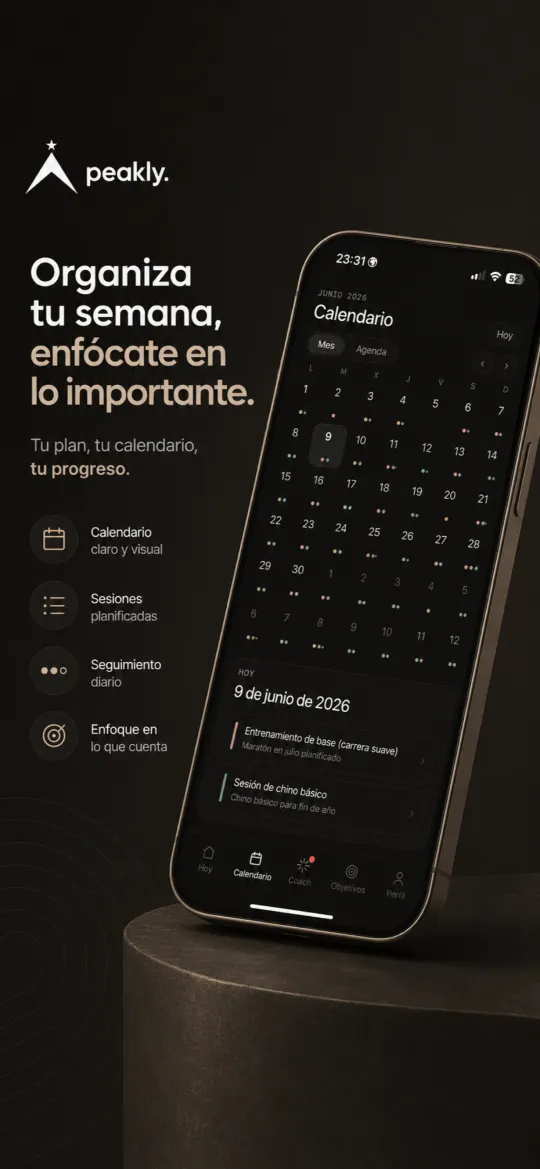
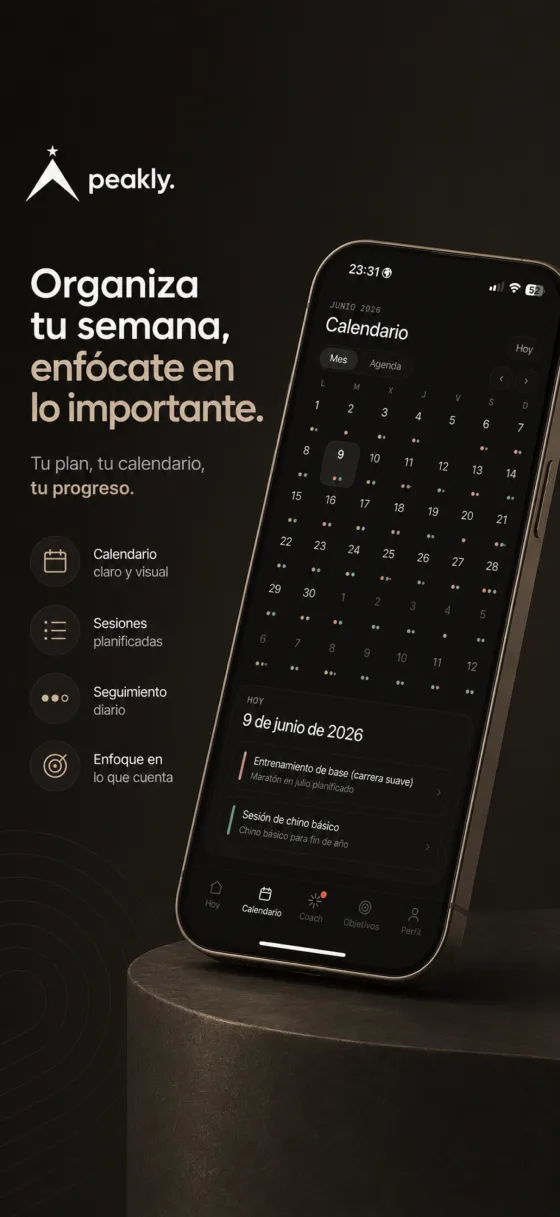
Capturas actuales del App Store y sin Viena La Baguette
- Portadas y capturas de Miko (1.4.0), 101 Offline Games (1.3.1),
  Cultura General (2.3.0) y Peakly (6,9") desde "Capturas App Store".
- Nuevo formato de lienzo vertical para las capturas de iPhone.
- Cultura General actualizada a la 2.3: Aventura, 4.000 preguntas, PRO.
- Fuera Viena La Baguette; la sala III pasa a "Web y comercio".
- La cifra de puestos en Management Solutions pasa a los 114 juegos.

diff --git a/src/data/projects.ts b/src/data/projects.ts
@@ -5,7 +5,7 @@ import type { Tint } from "./profile";
 export type Frame = "gilt" | "oak" | "black" | "white" | "walnut";
 
 export type Art =
-  | { kind: "image"; src: string; shape: "tall" | "wide" | "square"; position?: string }
+  | { kind: "image"; src: string; shape: "phone" | "tall" | "wide" | "square"; position?: string }
   | { kind: "gen"; piece: "bento" | "neural" | "signal" | "ledger" | "still" | "chat" | "pixels"; shape: "tall" | "wide" | "square" };
 
 export type Status = { label: string; tone: "live" | "prod" | "private" | "dev" | "archive" };
@@ -47,8 +47,8 @@ export const ROOMS = [
   {
     id: 3,
     numeral: "III",
-    title: "Web, comercio y clientes",
-    text: "Productos con pagos, NFC y paneles de gestión, y webs para negocios reales.",
+    title: "Web y comercio",
+    text: "Productos con pagos, NFC, paneles de gestión y trazabilidad.",
   },
   {
     id: 4,
@@ -68,7 +68,7 @@ export const PROJECTS: Project[] = [
     room: 1,
     tint: "clay",
     frame: "gilt",
-    art: { kind: "image", src: "/gallery/miko/cover.webp", shape: "tall" },
+    art: { kind: "image", src: "/gallery/miko/cover.webp", shape: "phone" },
     status: { label: "En el App Store · v1.6", tone: "live" },
     technique: "React Native, Supabase y arte 3D sobre iPhone y iPad",
     summary:
@@ -93,7 +93,7 @@ export const PROJECTS: Project[] = [
       { label: "App Store", url: "https://apps.apple.com/app/id6785652879" },
       { label: "mikostudy.com", url: "https://mikostudy.com" },
     ],
-    shots: ["/gallery/miko/s2.webp", "/gallery/miko/s3.webp", "/gallery/miko/s4.webp"],
+    shots: ["/gallery/miko/s2.webp", "/gallery/miko/s3.webp", "/gallery/miko/s4.webp", "/gallery/miko/s5.webp", "/gallery/miko/s6.webp", "/gallery/miko/s7.webp"],
   },
   {
     slug: "101-juegos",
@@ -103,7 +103,7 @@ export const PROJECTS: Project[] = [
     room: 1,
     tint: "slate",
     frame: "black",
-    art: { kind: "image", src: "/gallery/101-games/cover.webp", shape: "tall" },
+    art: { kind: "image", src: "/gallery/101-games/cover.webp", shape: "phone" },
     status: { label: "En el App Store · v1.3.1", tone: "live" },
     technique: "TypeScript estricto y 1.760 tests sobre lienzo offline",
     summary:
@@ -128,32 +128,34 @@ export const PROJECTS: Project[] = [
       { label: "App Store", url: "https://apps.apple.com/app/id6791493133" },
       { label: "101games.pablobrasero.com", url: "https://101games.pablobrasero.com" },
     ],
-    shots: ["/gallery/101-games/s2.webp", "/gallery/101-games/s3.webp", "/gallery/101-games/s4.webp"],
+    shots: ["/gallery/101-games/s2.webp", "/gallery/101-games/s3.webp", "/gallery/101-games/s4.webp", "/gallery/101-games/s5.webp", "/gallery/101-games/s6.webp", "/gallery/101-games/s7.webp"],
   },
   {
     slug: "cultura-general",
     title: "Cultura General",
-    kicker: "Trivia diaria, ligas y multijugador",
+    kicker: "Aprende algo nuevo cada día",
     year: "2026",
     room: 1,
     tint: "plum",
     frame: "walnut",
-    art: { kind: "image", src: "/gallery/cultura-general/cover.webp", shape: "wide" },
+    art: { kind: "image", src: "/gallery/cultura-general/cover.webp", shape: "phone" },
     status: { label: "En el App Store · v2.3", tone: "live" },
-    technique: "Expo, Supabase y 1.589 preguntas sobre fondo nocturno",
+    technique: "Expo, Supabase y 4.000 preguntas en 13 temas",
     summary:
-      "App de preguntas con seis modos de juego, progresión con niveles y monedas, ligas semanales y multijugador local. Fuera de España se llama CG Trivia.",
+      "App de cultura general con una Aventura de 400 niveles, pregunta del día, ligas semanales, retos y multijugador local. Fuera de España se llama CG Trivia.",
     story: [
-      "Pregunta del día con cuatro rankings, Contrarreloj de 30 segundos, Modo Ascenso con vidas, checkpoints y un bote que se arriesga o se asegura, retos de banderas de 196 países y de años históricos, y cinco modos para jugar con amigos en un solo móvil.",
+      "La versión 2.3 gira en torno a la Aventura: 20 capítulos y 400 niveles con un guardián al final de cada uno. Alrededor, la pregunta del día compartida por todo el mundo, retos de banderas de 196 países y de años históricos, y cinco modos para jugar con amigos en un solo móvil.",
+      "Cultura General PRO desbloquea la Aventura completa, 2.000 preguntas más, Examen, Repaso inteligente y estadísticas, y quita los anuncios, con pago mensual, anual o único.",
       "La progresión usa la misma fórmula en el cliente y en SQL para que nunca discrepen, y las pantallas con datos de servidor conviven con un modo invitado que permite jugar sin cuenta.",
     ],
     stats: [
-      { value: "1.589", label: "preguntas" },
-      { value: "13", label: "categorías" },
-      { value: "6", label: "modos de juego" },
+      { value: "4.000", label: "preguntas" },
+      { value: "400", label: "niveles de Aventura" },
+      { value: "13", label: "temas" },
     ],
     highlights: [
       "Ligas semanales, misiones diarias y rachas.",
+      "Examen de 40 preguntas con nota y repaso de lo que fallas.",
       "Multijugador local de 2 a 10 jugadores, también por equipos.",
       "Tema claro, oscuro o del sistema; español e inglés.",
       "Campañas propias de vídeo e imagen para Meta y App Store.",
@@ -163,7 +165,7 @@ export const PROJECTS: Project[] = [
       { label: "App Store", url: "https://apps.apple.com/app/id6766927114" },
       { label: "cg-trivia.pablobrasero.com", url: "https://cg-trivia.pablobrasero.com" },
     ],
-    shots: ["/gallery/cultura-general/s2.webp", "/gallery/cultura-general/s3.webp", "/gallery/cultura-general/s4.webp"],
+    shots: ["/gallery/cultura-general/s2.webp", "/gallery/cultura-general/s3.webp", "/gallery/cultura-general/s4.webp", "/gallery/cultura-general/s5.webp", "/gallery/cultura-general/s6.webp", "/gallery/cultura-general/s7.webp"],
   },
   {
     slug: "peakly",
@@ -173,7 +175,7 @@ export const PROJECTS: Project[] = [
     room: 1,
     tint: "umber",
     frame: "oak",
-    art: { kind: "image", src: "/gallery/peakly/cover.webp", shape: "tall" },
+    art: { kind: "image", src: "/gallery/peakly/cover.webp", shape: "phone" },
     status: { label: "En el App Store", tone: "live" },
     technique: "Agentes de IA, Supabase y Stripe sobre oscuro cálido",
     summary:
@@ -411,26 +413,6 @@ export const PROJECTS: Project[] = [
       "Universal links entre web e iOS.",
     ],
     stack: ["Python", "FastAPI", "MongoDB", "Next.js", "SwiftUI", "NFC"],
-    links: [],
-  },
-  {
-    slug: "viena-la-baguette",
-    title: "Viena La Baguette",
-    kicker: "Panadería artesanal de masa madre",
-    year: "2026",
-    room: 3,
-    tint: "umber",
-    frame: "walnut",
-    art: { kind: "image", src: "/gallery/viena/cover.webp", shape: "square" },
-    status: { label: "Proyecto web", tone: "dev" },
-    technique: "Next.js y masa madre",
-    summary:
-      "Web para una panadería artesanal: catálogo de panes con carrusel arrastrable, blog y páginas legales, cuidada como un escaparate.",
-    story: [
-      "Una web rápida y cálida en Next.js con un carrusel de panes que se arrastra y retoma solo su desplazamiento, blog propio y SEO preparado.",
-    ],
-    highlights: ["Carrusel arrastrable con auto-scroll reanudable.", "Blog y SEO con robots y metadatos.", "Páginas legales completas."],
-    stack: ["Next.js", "React", "TypeScript", "Tailwind CSS"],
     links: [],
   },
 

diff --git a/src/styles/global.css b/src/styles/global.css
@@ -268,6 +268,7 @@ a.tile:hover { border-color: #d6c7ae; box-shadow: var(--shadow-md); }
   box-shadow: inset 0 0 0 1px #d9cdb8, 0 22px 34px -16px rgba(43, 38, 32, 0.45), 0 6px 10px -4px rgba(43, 38, 32, 0.18);
 }
 
+.shape-phone { aspect-ratio: 1 / 1.86; }
 .shape-tall { aspect-ratio: 3 / 4.6; }
 .shape-wide { aspect-ratio: 16 / 10.4; }
 .shape-square { aspect-ratio: 1 / 1; }
